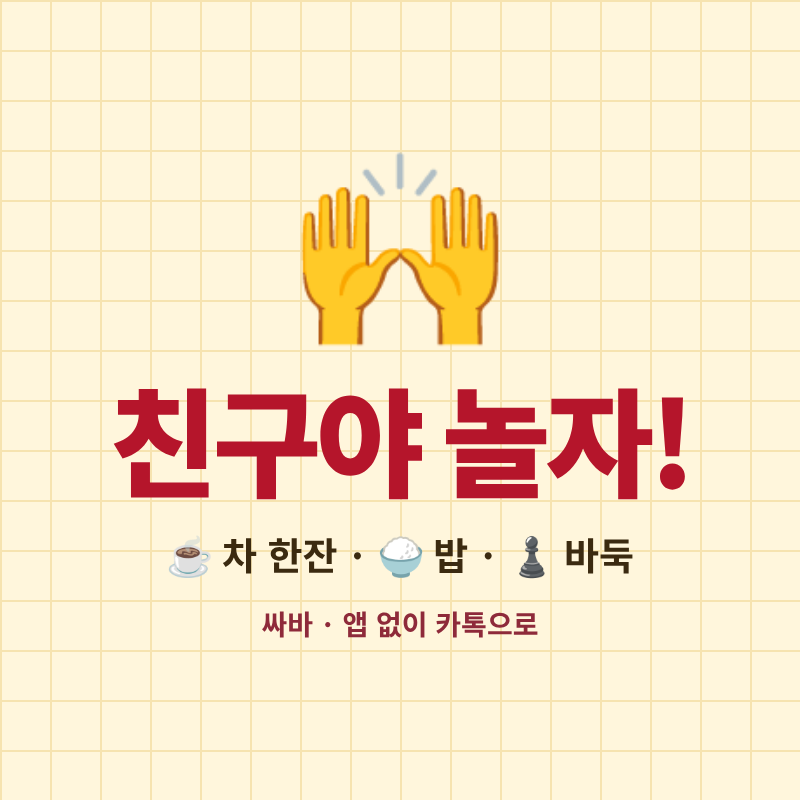
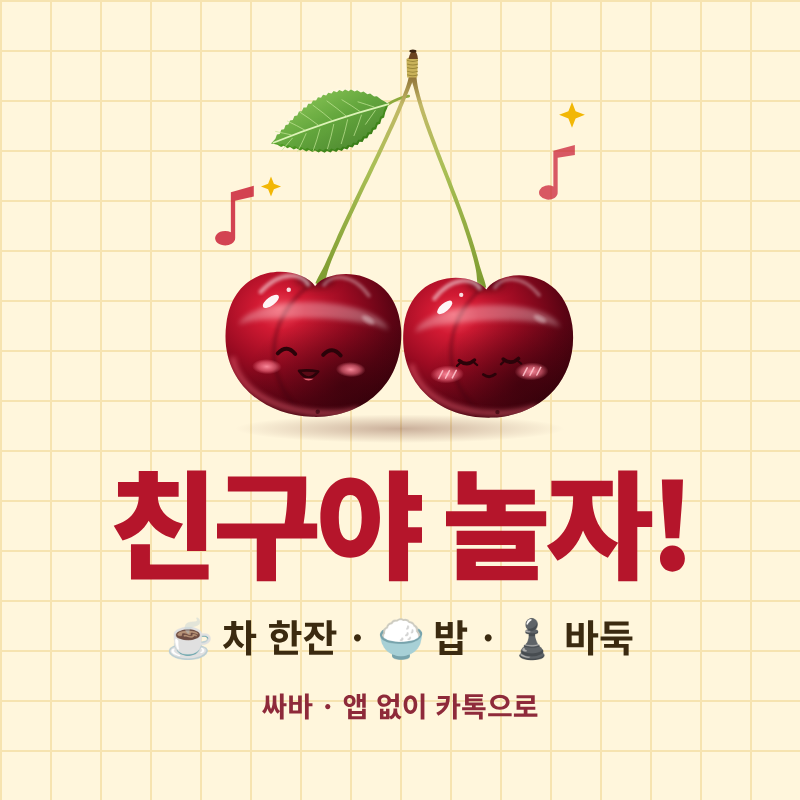
Add files via upload

diff --git a/eodiya/index.html b/eodiya/index.html
@@ -121,7 +121,7 @@
     <div class="modes" role="group" aria-label="무엇을 보낼까요">
       <button type="button" class="mode" data-mode="ask" aria-pressed="true"><i>🙋</i><b>어디야?</b><span>친구가 어디 있는지 물어봐요</span></button>
       <button type="button" class="mode" data-mode="come" aria-pressed="false"><i>📍</i><b>여기야!</b><span>내 위치나 만날 곳을 보내요</span></button>
-      <button type="button" class="mode" data-mode="play" aria-pressed="false"><i>🙌</i><b>놀자!</b><span>친구들 불러 모아요</span></button>
+      <button type="button" class="mode" data-mode="play" aria-pressed="false"><i><img src="../img/cherry-dance.svg" alt="" width="34" height="34" style="display:block;margin:-4px 0"></i><b>놀자!</b><span>친구들 불러 모아요</span></button>
     </div>
 
     <div class="box" id="askBox">
@@ -151,7 +151,7 @@
     </div>
 
     <div class="box" id="playBox" hidden>
-      <div class="bubble">🙌 <b id="playPrev">친구야 놀자!</b></div>
+      <div class="bubble"><img src="../img/cherry-dance-anim.svg" alt="" width="34" height="34" style="vertical-align:-9px"> <b id="playPrev">친구야 놀자!</b></div>
       <label class="l" style="margin-top:16px">뭐 할까?</label>
       <div class="acts" id="acts">
         <button type="button" class="act" aria-pressed="true">☕ 차 한잔</button>
@@ -211,10 +211,11 @@
   </section>
 
   <!-- ===== 받는 화면: 친구야 놀자! ===== -->
-  <section id="viewPlay" hidden>
-    <div class="who" id="pWho"></div>
-    <h1 class="q">친구야 놀자!</h1>
-    <p class="pact" id="pAct"></p>
+  <section id="viewPlay" hidden style="text-align:center">
+    <img src="../img/cherry-dance-anim.svg" alt="" width="190" height="190" style="display:block;margin:-6px auto -8px">
+    <div class="who" id="pWho" style="text-align:center"></div>
+    <h1 class="q" style="text-align:center">친구야 놀자!</h1>
+    <p class="pact" id="pAct" style="text-align:center"></p>
     <div class="when" id="pWhen" hidden></div>
     <p class="place" id="pPlace" hidden style="margin-top:10px"></p>
     <iframe class="map" id="pMap" title="모이는 곳 지도" hidden loading="lazy"></iframe>

diff --git a/app/index.html b/app/index.html
@@ -281,7 +281,7 @@
     // 어디야? — 싸바의 얼굴. 홈 맨 위에 크게
     var eh = el('div', 'eo-hero');
     eh.innerHTML = '<span class="pin" aria-hidden="true">📍</span><h2>어디야?</h2><p>카톡 한 번이면 친구 위치가 와요 · 친구 불러 모으기까지</p>' +
-      '<div class="eo-btns"><a href="../eodiya/">🙋 어디야?<small>친구 위치 묻기</small></a><a class="alt" href="../eodiya/#come">📍 여기야!<small>내 위치 보내기</small></a><a class="play" href="../eodiya/#play">🙌 친구야 놀자!<small>친구들 불러 모으기 · 차 한잔 · 밥 · 바둑</small></a></div>';
+      '<div class="eo-btns"><a href="../eodiya/">🙋 어디야?<small>친구 위치 묻기</small></a><a class="alt" href="../eodiya/#come">📍 여기야!<small>내 위치 보내기</small></a><a class="play" href="../eodiya/#play"><span><img src="../img/cherry-dance-anim.svg" alt="" width="34" height="34" style="vertical-align:-10px"> 친구야 놀자!</span><small>친구들 불러 모으기 · 차 한잔 · 밥 · 바둑</small></a></div>';
     v.appendChild(eh);
     if (window.SsakaInstall && !SsakaInstall.standalone()) { var sp = el('div', 'si-pad'); SsakaInstall.chip(sp); v.appendChild(sp); }
     var mine = S.mine();
